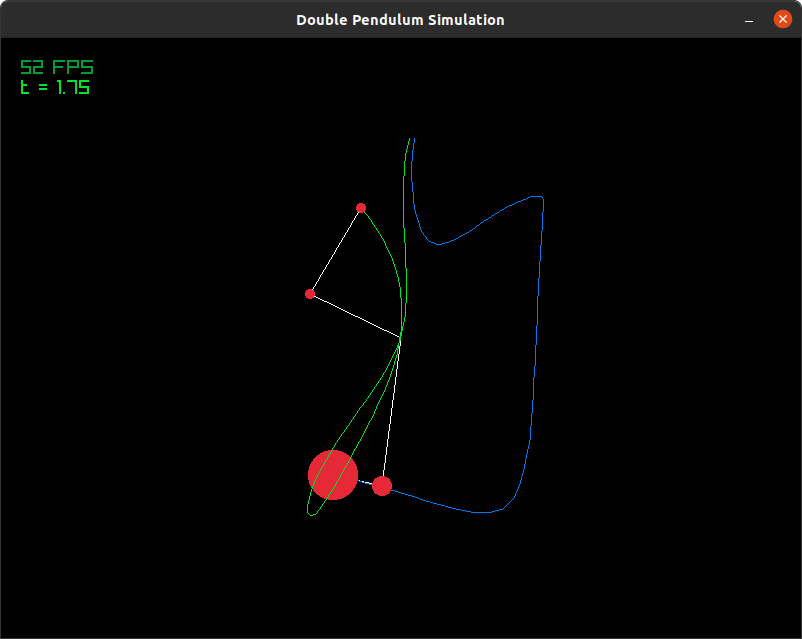
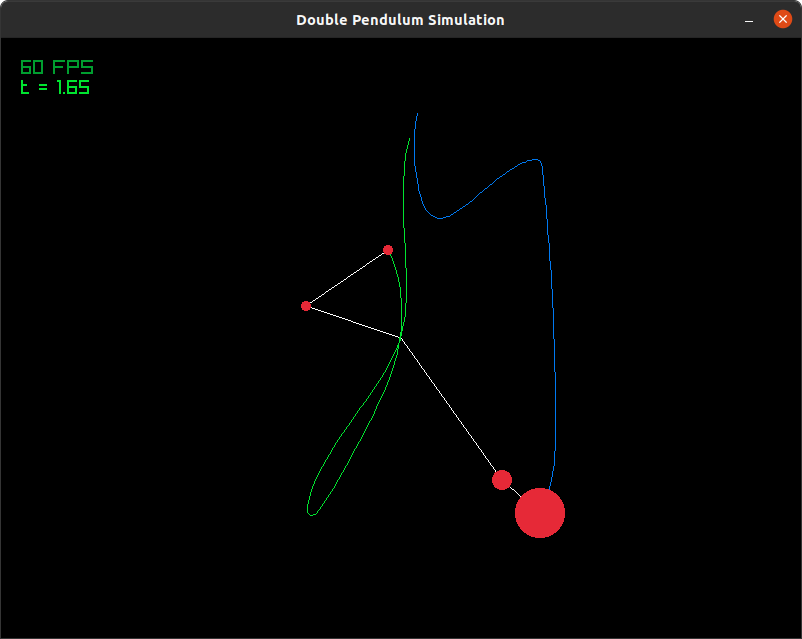
Try to render equations

diff --git a/double_pendulum.c b/double_pendulum.c
@@ -293,7 +293,7 @@ int main(int argc, char *argv[])
 	TEST_FILE(file == NULL, "Position_backup.csv");
     }
 
-    Var_Dp Var_Dp1 = {.l1       = 1.5f,
+    Var_Dp Var_Dp1 = {.l1       = 1.75f,
     		      .l2       = 0.5f,
     		      .m1       = 2.f,
     		      .m2       = 5.f,
@@ -338,7 +338,7 @@ int main(int argc, char *argv[])
     SetTargetFPS(FPS);
 
     char tab[30] = {' '};
-    snprintf(tab, 16, "ERROR: Calculation overflow");
+    snprintf(tab, 30, "ERROR: Calculation overflow");
     for (int i = 0;!WindowShouldClose();) {
 	if (IsKeyDown(KEY_SPACE)) {BeginDrawing(); EndDrawing(); continue;}
 	BeginDrawing();

diff --git a/README.md b/README.md
@@ -93,3 +93,12 @@ https://www.unige.ch/~hairer/software.html
 
 ## Info pour Makefile
 https://makefiletutorial.com/
+
+
+# Writing the double pendulum's equations with Lagrange method
+
+## First select the degrees of freedom
+
+```math
+\theta_1 and \theta_2
+```
